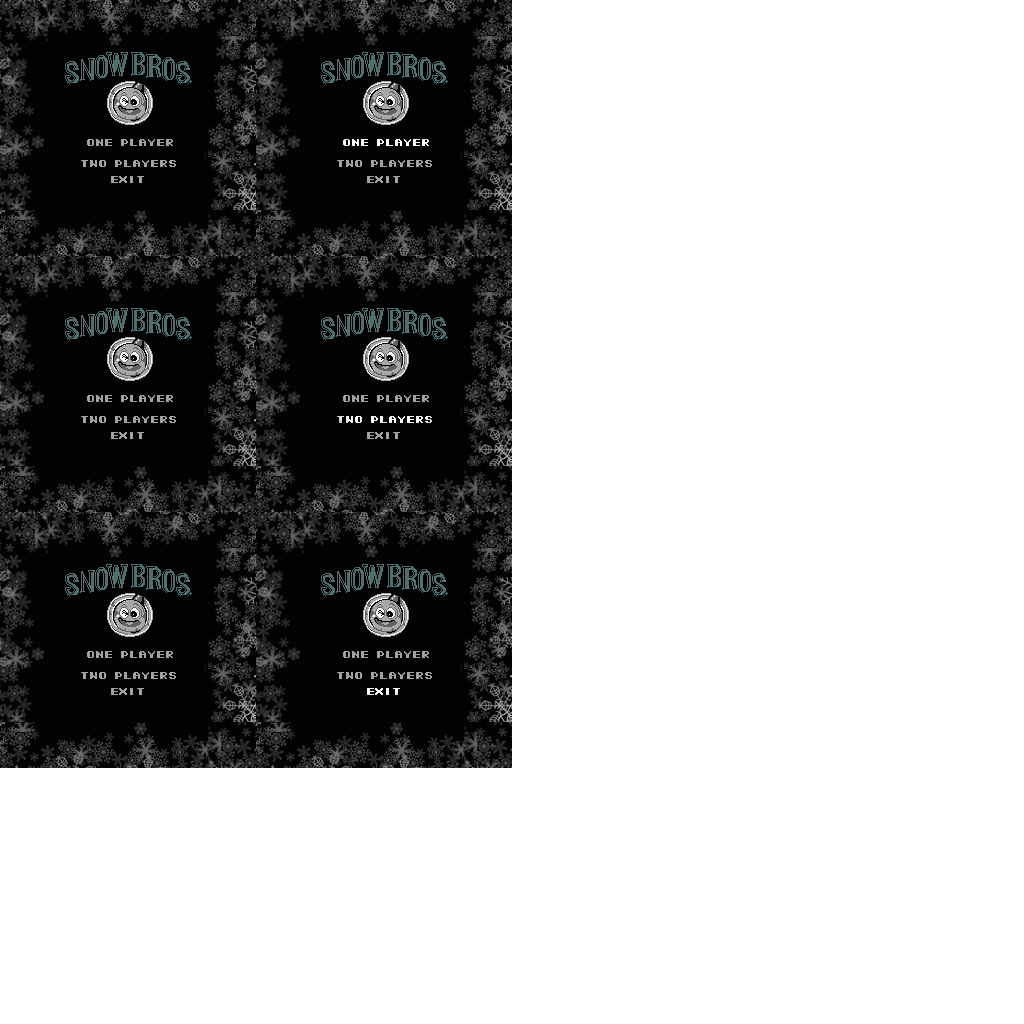
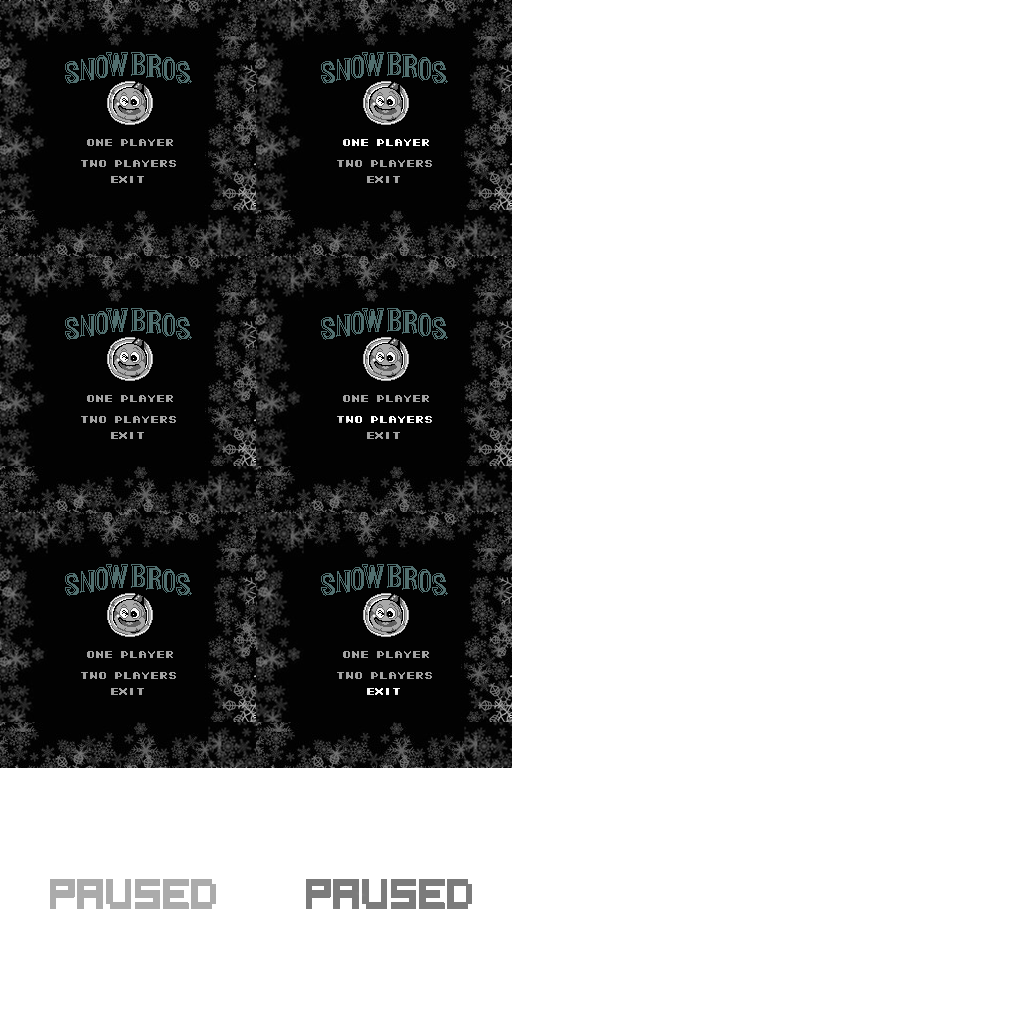
Pause

Changed region(s): [[0.2812, 0.8438, 0.4688, 0.9062], [0.0312, 0.8438, 0.2188, 0.9062]]

diff --git a/cGame.cpp b/cGame.cpp
@@ -85,7 +85,7 @@ bool cGame::ProcessMenu() {
 		ui.stateUp();
 		keyboard_enabled = false;
 	}
-	if (keys['s'] && keyboard_enabled)  {
+	else if (keys['s'] && keyboard_enabled)  {
 		ui.stateDown();		
 		keyboard_enabled = false;
 	}
@@ -115,14 +115,19 @@ bool cGame::ProcessMenu() {
 
 bool cGame::ProcessPlaying() {
 	bool res = true;
-	if(!Player.isDead()) { //if the player is dead we will not do anything until it revives
-		//INPUT
-		//ESC
-		if (keys[27]) {
+	if (keys[27]) {
 			state = STATE_MENU; 
 			enemies = vector<Enemy>();
-		}
-
+	}
+	if ((keys['p'] || keys['P']) && keyboard_enabled) {
+			state = STATE_PAUSE;
+			keyboard_enabled = false;
+	}
+	if ((!keys['p'] && !keys['P']) && !keyboard_enabled)  {
+		keyboard_enabled = true;
+	}
+	if(!Player.isDead()) { //if the player is dead we will not do anything until it revives
+		//INPUT
 		//SPACEBAR
 		if (keys[' '] && !throwing && Player.GetState()!=STATE_SNOWBALL_PLAYER)  {
 			throwing = true;
@@ -297,6 +302,20 @@ bool cGame::ProcessPlaying() {
 	return res;
 }
 
+bool cGame::ProcessPause() 
+{
+	if ((keys['p'] || keys['P']) && keyboard_enabled) {
+		state = STATE_PLAYING;
+		keyboard_enabled = false;
+	}
+	if ((!keys['p'] && !keys['P']) && !keyboard_enabled)  keyboard_enabled = true;
+	else if (keys[27])  {
+		state = STATE_MENU;
+		enemies = vector<Enemy>();
+	}
+	return true;
+}
+
 //Process
 bool cGame::Process()
 {
@@ -308,6 +327,10 @@ bool cGame::Process()
 		case STATE_PLAYING:
 			res = ProcessPlaying();
 			break;
+		case STATE_PAUSE:
+			res = ProcessPause();
+			break;
+
 	}
 	return res;
 }
@@ -334,11 +357,6 @@ void cGame::RenderPlaying()
 	ui.DrawPlaying(Player.GetCurrentLives(),Player.GetCurrentPoints());
 }
 
-void cGame::RenderMenu()
-{
-	ui.DrawMenu(Data.GetID(IMG_MENU));
-}
-
 //Output
 void cGame::Render()
 {
@@ -350,7 +368,11 @@ void cGame::Render()
 			RenderPlaying();
 		break;
 		case STATE_MENU:
-			RenderMenu();
+			ui.DrawMenu(Data.GetID(IMG_MENU));
+		break;
+		case STATE_PAUSE:
+			RenderPlaying();
+			ui.DrawPause(Data.GetID(IMG_MENU));
 		break;
 	}
 	glutSwapBuffers();

diff --git a/UI.cpp b/UI.cpp
@@ -50,7 +50,7 @@ void UI::GenerateCallList() {
 void UI::NextFrame(int max)
 {
 	delay++;
-	if(delay == 15)
+	if(delay == 17)
 	{
 		seq++;
 		seq%=max;
@@ -86,7 +86,6 @@ void UI::DrawMenu(int tex_id) {
 			xo = seq*0.25f;	yo = 3*0.25f;
 			NextFrame(2);
 		break;
-		break;
 	}
 	xf = xo + 0.25f;	yf = yo - 0.25f;
 
@@ -103,6 +102,24 @@ void UI::DrawMenu(int tex_id) {
 	glDisable(GL_TEXTURE_2D);
 }
 
+void UI::DrawPause(int tex_id) {
+	float xo, yo, xf, yf;
+	xo = seq*0.25f;		yo = 4*0.25f;
+	NextFrame(2);
+	xf = xo + 0.25f;	yf = yo - 0.25f;
+
+	glEnable(GL_TEXTURE_2D);
+	
+	glBindTexture(GL_TEXTURE_2D,tex_id);
+	glBegin(GL_QUADS);	
+		glTexCoord2f(xo,yo);	glVertex2i(0  ,0);
+		glTexCoord2f(xf,yo);	glVertex2i(GAME_WIDTH,0);
+		glTexCoord2f(xf,yf);	glVertex2i(GAME_WIDTH,GAME_HEIGHT);
+		glTexCoord2f(xo,yf);	glVertex2i(0  ,GAME_HEIGHT);
+	glEnd();
+
+	glDisable(GL_TEXTURE_2D);
+}
 void UI::DrawPlaying(int lives, int points) {
 	glCallList(id0);
 	//pintar points lives i level

diff --git a/UI.h b/UI.h
@@ -13,6 +13,7 @@ public:
 
 	void DrawPlaying(int lives, int points);
 	void DrawMenu(int tex_id);
+	void DrawPause(int tex_id);
 	void stateUp();
 	void stateDown();
 	void setWidthHeight(int width, int height);

diff --git a/cGame.h b/cGame.h
@@ -32,9 +32,9 @@ public:
 	bool Process();
 	bool ProcessMenu();
 	bool ProcessPlaying();
+	bool ProcessPause();
 	//Output
 	void Render();
-	void RenderMenu();
 	void RenderPlaying();
 
 private:
